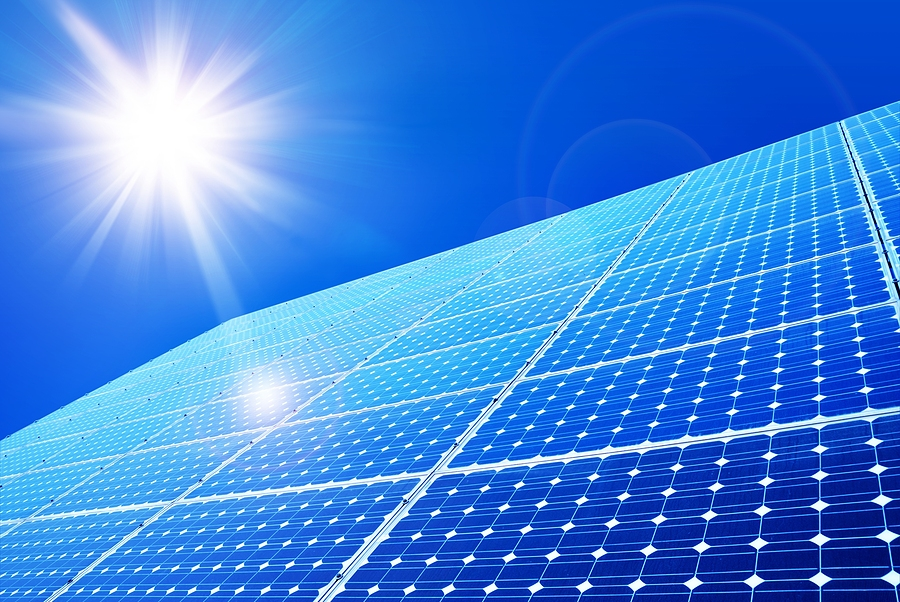
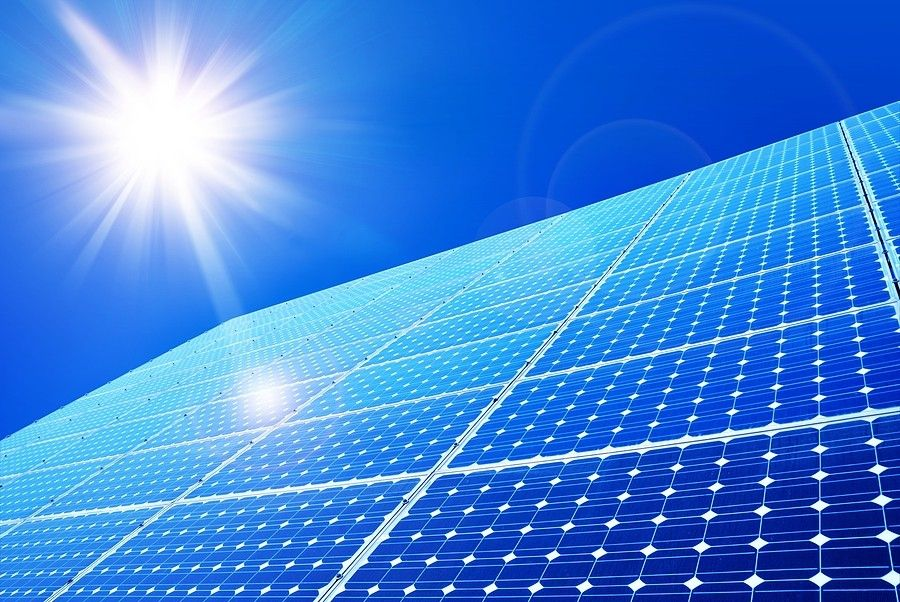
Compress Images

diff --git a/src/pages/TeamPage.tsx b/src/pages/TeamPage.tsx
@@ -6,9 +6,9 @@ import { MotionFadeUp, MotionStagger, AnimatedHeading } from '../components/Anim
 import SEO from '../components/SEO';
 // ourTeamIcon removed: using shared HeroSection component instead
 import manojImg from '../assets/team/manoj-tiwari.jpeg';
-import vijayImg from '../assets/team/vijay-tiwari-2.jpg';
-import office2 from '../assets/Office-2.png';
-import reception from '../assets/reception.png';
+import vijayImg from '../assets/team/vijay-tiwari.jpeg';
+import office2 from '../assets/Office-2.jpeg';
+import reception from '../assets/reception.jpeg';
 
 function OfficeImages() {
   const imageReveal = {
@@ -152,20 +152,30 @@ export default function TeamPage() {
               >
 
 
-                {member.photo ? (
-                  <img
-                    src={member.photo}
-                    alt={`${member.name} - ${member.role} at Orbit Engineering Group Bhopal`}
-                    className="w-36 h-36 rounded-full object-cover mx-auto mb-6 ring-4 ring-[#0073bc]/10 shadow-sm"
-                    loading="lazy"
-                  />
-                ) : (
-                  <div className="bg-gradient-to-br from-[#0073bc] to-[#005a94] rounded-full w-24 h-24 flex items-center justify-center mx-auto mb-6">
-                    <span className="text-3xl font-bold text-white">
-                      {member.name.split(' ').map(n => n[0]).join('')}
-                    </span>
+                <div className="relative w-64 h-64 mx-auto mb-10 group">
+                  {/* Decorative background shapes */}
+                  <div className="absolute inset-0 bg-[#0073bc]/10 rounded-[3rem] rotate-6 transform group-hover:rotate-12 transition-transform duration-500 ease-out"></div>
+                  <div className="absolute inset-0 bg-gradient-to-br from-[#0073bc]/20 to-transparent rounded-[3rem] -rotate-3 transform group-hover:-rotate-6 transition-transform duration-500 ease-out"></div>
+
+                  {/* Main image container */}
+                  <div className="relative w-full h-full overflow-hidden rounded-[2.5rem] border-4 border-white shadow-2xl z-10">
+                    {member.photo ? (
+                      <img
+                        src={member.photo}
+                        alt={`${member.name} - ${member.role} at Orbit Engineering Group Bhopal`}
+                        className="w-full h-full object-cover transform group-hover:scale-110 transition-transform duration-700 ease-in-out"
+                        loading="lazy"
+                      />
+                    ) : (
+                      <div className="w-full h-full bg-gradient-to-br from-[#0073bc] to-[#005a94] flex items-center justify-center">
+                        <span className="text-7xl font-bold text-white">
+                          {member.name.split(' ').map(n => n[0]).join('')}
+                        </span>
+                      </div>
+                    )}
                   </div>
-                )}
+                </div>
+
                 <h3 className="text-2xl font-bold text-gray-900 text-center mb-2">
                   {member.name}
                 </h3>

diff --git a/src/data/rawProducts.ts b/src/data/rawProducts.ts
@@ -5,7 +5,7 @@ import ultrasonicLevelTx from '../assets/products/ultrasonic-level-tx.jpg';
 import waterMeter from '../assets/products/water-meter.jpg';
 import chlorineTransmitter from '../assets/products/chlorine-transmitter-new.jpg';
 import doTransmitter from '../assets/products/do-transmitter.png';
-import phAnalyzer from '../assets/products/ph-analyzer.png';
+import phAnalyzer from '../assets/products/ph-analyzer.jpeg';
 import turbidityTransmitter from '../assets/products/turbidity-transmitter.png';
 import differentialPressureTransmitter from '../assets/products/differential-pressure-transmitter.jpg';
 import smartTypePressureTransmitter from '../assets/products/smart-type-pressure-transmitter.jpg';
@@ -18,9 +18,9 @@ import butterflyValves from '../assets/products/butter-fly-valves.jpg';
 import gateValve from '../assets/products/gate-valve.jpg';
 import motorizedBallValve from '../assets/products/motorized-ball-valve.jpg';
 import sluceValves from '../assets/products/sluce-valves.jpg';
-import rtu from '../assets/products/rtu-remote.png';
+import rtu from '../assets/products/rtu-remote.jpeg';
 import scada from '../assets/products/scada.jpg';
-import iot from '../assets/products/iot.png';
+import iot from '../assets/products/iot.jpeg';
 import servers from '../assets/products/servers.jpg';
 import softwares from '../assets/products/softwares.jpg';
 import bulletCamera from '../assets/products/bullet-camera.jpg';
@@ -31,14 +31,14 @@ import bigJointingMachines from '../assets/products/big-jointing-machines.jpg';
 import weldingMachine from '../assets/products/welding_machine.jpg';
 import electrofusionJointingMachine from '../assets/products/electrofusion.jpeg';
 import hdpeFittings from '../assets/products/hdpe-fittings.jpg';
-import chlorinator from '../assets/products/chlorinator.png';
-import plc from '../assets/products/plc.png';
+import chlorinator from '../assets/products/chlorinator.jpeg';
+import plc from '../assets/products/plc.jpeg';
 import autoTransformer from '../assets/products/auto-transformer.png';
-import distributionTransformer from '../assets/products/distribution-transformer.png';
+import distributionTransformer from '../assets/products/distribution-transformer.jpeg';
 import shuntReactor from '../assets/products/shunt-reactor.png';
 import locomotiveTransformer from '../assets/products/locomotive-transformer.png';
 import sf6CircuitBreaker from '../assets/products/sf6-circuit-breaker.png';
-import solarStreetLight from '../assets/products/smart-solar-street-light.png';
+import solarStreetLight from '../assets/products/smart-solar-street-light.jpeg';
 import solarPanel from '../assets/products/solar-panel.jpg';
 
 

diff --git a/src/components/HeroBackgroundSlider.tsx b/src/components/HeroBackgroundSlider.tsx
@@ -5,7 +5,7 @@ import { motion, AnimatePresence } from 'framer-motion';
 import heroBg from '../assets/products/hero-bg.jpg';
 import solar from '../assets/Solar_.jpg';
 import transformer from '../assets/transformer_.jpg';
-import wtp1 from '../assets/wtp_hero.png';
+import wtp1 from '../assets/wtp_hero.jpeg';
 import wtp2 from '../assets/wtp__.jpg';
 
 const images = [heroBg, solar, transformer, wtp1, wtp2];
